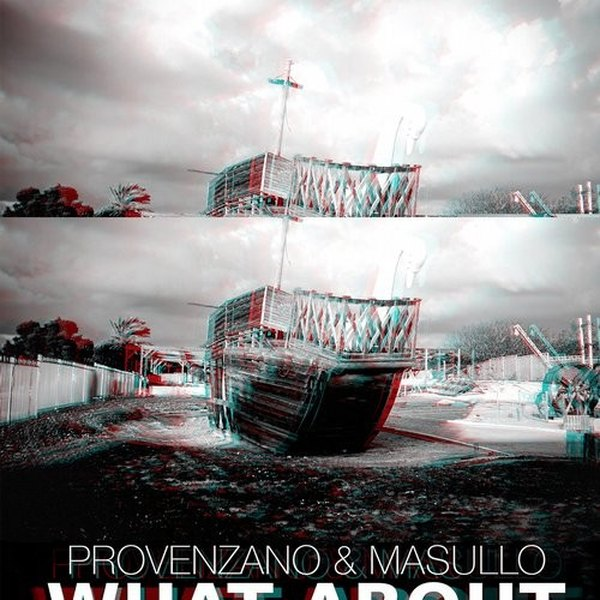
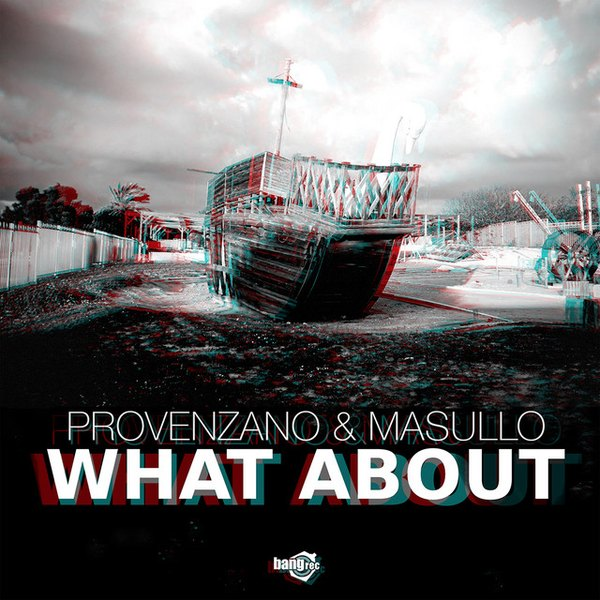
Le versioni su tre pagine, i due player di What About, e una copertina intera
- Side By Side: le sei versioni dell'album Apple, con le durate
- We Are One: le quattro del single, e i remix di Gregor Salto sono due
- What About: la pagina era senza player e ora ne ha due - il singolo e
  l'EP dei remix - piu' le undici versioni in fila
- What About: copertina rifatta, era un ritaglio 500x500 che chiudeva a
  meta' della scritta WHAT ABOUT
- Start It Over: seconda compilation, For DJs Only 2015/01

diff --git a/discografia/what-about/index.html b/discografia/what-about/index.html
@@ -122,9 +122,9 @@ footer .contenitore{display:flex;justify-content:space-between;gap:14px;flex-wra
     </div>
   </article>
 
-  <section class="blocco"><h3>Le versioni</h3><ul class="versioni"><li><span class="tit">Denny Berland Remix</span></li></ul></section>
+  <section class="blocco"><h3>Le versioni</h3><ul class="versioni"><li><span class="tit">Radio Edit 3:09</span></li><li><span class="tit">Extended Version 4:10</span></li><li><span class="tit">Remix by Denny Berland 4:37</span></li><li><span class="tit">Remix by Silvio Carrano 5:15</span></li><li><span class="tit">90 Dub Mix by Luca Guerrieri 4:06</span></li><li><span class="tit">Remix by Paolo Pellegrino 4:18</span></li><li><span class="tit">Remix by Valentini 3:09</span></li><li><span class="tit">Remix by Umberto Balzanelli &amp; Michelle 4:46</span></li><li><span class="tit">Remix by Andry B &amp; JJ 4:27</span></li><li><span class="tit">Remix by Francesco Sparacello &amp; Loris Buono 4:47</span></li><li><span class="tit">Remix by Storm 5:21</span></li></ul></section>
   <section class="blocco"><h3>Inserita in una compilation</h3><ul class="compilation"><li><a href="/compilation/m2o-summer-xperience/">m2o Summer Xperience</a><span class="anno">2016</span></li></ul></section>
-  
+  <section class="blocco"><h3>Ascolta</h3><div class="didascalia">il singolo, quattro versioni</div><iframe class="spotify" loading="lazy" src="https://open.spotify.com/embed/album/5HedcRY1iVmfSHdJWsUgp3" height="152" frameborder="0" allow="encrypted-media"></iframe><div class="didascalia">l&#x27;EP dei remix, sette versioni</div><iframe class="spotify" loading="lazy" src="https://open.spotify.com/embed/album/5OOl6YsiqEfspt8Zx3aEHi" height="152" frameborder="0" allow="encrypted-media"></iframe></section>
   <section class="blocco"><h3>Il video</h3><div class="video"><iframe src="https://www.youtube-nocookie.com/embed/OFvjfNM-amU" title="What About" loading="lazy" frameborder="0" allowfullscreen allow="accelerometer; clipboard-write; encrypted-media; gyroscope; picture-in-picture; web-share" referrerpolicy="strict-origin-when-cross-origin"></iframe></div><div class="didascalia">videoclip ufficiale · Bang Record, Official Video</div></section>
   
 

diff --git a/discografia/side-by-side/index.html b/discografia/side-by-side/index.html
@@ -122,7 +122,7 @@ footer .contenitore{display:flex;justify-content:space-between;gap:14px;flex-wra
     </div>
   </article>
 
-  
+  <section class="blocco"><h3>Le versioni</h3><ul class="versioni"><li><span class="tit">Ranucci, Pelusi Radio Edit 3:28</span></li><li><span class="tit">Ranucci, Pelusi Extended Mix 6:51</span></li><li><span class="tit">Ranucci, Pelusi Club Mix 6:29</span></li><li><span class="tit">Dimitri Vegas, Like Mike Remix 5:39</span></li><li><span class="tit">Gianni Donzelli Remix 8:25</span></li><li><span class="tit">Michi Fasano, Flowminds Remix 5:46</span></li></ul></section>
   <section class="blocco"><h3>Inserita in una compilation</h3><ul class="compilation"><li><a href="/compilation/m2ovol22/">m2o vol.22</a><span class="anno">2009</span></li></ul></section>
   <section class="blocco"><h3>Ascolta</h3><div class="didascalia">il disco intero, sei versioni</div><iframe class="apple" loading="lazy" height="175" frameborder="0" allow="autoplay *; encrypted-media *;" src="https://embed.music.apple.com/us/album/side-by-side-feat-andy-p/1723367571?theme=dark"></iframe></section>
   <section class="blocco"><h3>Il video</h3><div class="video"><iframe src="https://www.youtube-nocookie.com/embed/LqXXKRjcglw" title="Side By Side" loading="lazy" frameborder="0" allowfullscreen allow="accelerometer; clipboard-write; encrypted-media; gyroscope; picture-in-picture; web-share" referrerpolicy="strict-origin-when-cross-origin"></iframe></div><div class="didascalia">audio ufficiale · remix Dimitri Vegas &amp; Like Mike</div></section>

diff --git a/discografia/we-are-one/index.html b/discografia/we-are-one/index.html
@@ -122,7 +122,7 @@ footer .contenitore{display:flex;justify-content:space-between;gap:14px;flex-wra
     </div>
   </article>
 
-  
+  <section class="blocco"><h3>Le versioni</h3><ul class="versioni"><li><span class="tit">Gregor Salto Radio RMX 3:02</span></li><li><span class="tit">We Are One 4:01</span></li><li><span class="tit">Gregor Salto Remix 3:35</span></li><li><span class="tit">Instrumental Mix 4:01</span></li></ul></section>
   <section class="blocco"><h3>Inserita in una compilation</h3><ul class="compilation"><li><a href="/compilation/m2o-music-xperience/">m2o Music Xperience</a><span class="anno">2016</span></li></ul></section>
   <section class="blocco"><h3>Ascolta</h3><iframe class="spotify" loading="lazy" src="https://open.spotify.com/embed/album/6yGsG7wT7vNuEJHTkhWlUF" height="152" frameborder="0" allow="encrypted-media"></iframe></section>
   <section class="blocco"><h3>Il video</h3><div class="video"><iframe src="https://www.youtube-nocookie.com/embed/5PLquRNmAPM" title="We Are One (Gregor Salto Rmx)" loading="lazy" frameborder="0" allowfullscreen allow="accelerometer; clipboard-write; encrypted-media; gyroscope; picture-in-picture; web-share" referrerpolicy="strict-origin-when-cross-origin"></iframe></div><div class="didascalia">videoclip ufficiale · EGO TV</div></section>

diff --git a/discografia/denny-berland-alicia-madison-start-it-over/index.html b/discografia/denny-berland-alicia-madison-start-it-over/index.html
@@ -123,7 +123,7 @@ footer .contenitore{display:flex;justify-content:space-between;gap:14px;flex-wra
   </article>
 
   
-  <section class="blocco"><h3>Inserita in una compilation</h3><ul class="compilation"><li><a href="/compilation/m2ovol36/">m2o vol.36</a><span class="anno">2014</span></li></ul></section>
+  <section class="blocco"><h3>Inserita in 2 compilation</h3><ul class="compilation"><li><a href="/compilation/m2ovol36/">m2o vol.36</a><span class="anno">2014</span></li><li><span class="tit">For DJs Only 2015/01 - Club Selection</span><span class="anno">2015</span></li></ul></section>
   
   
   
